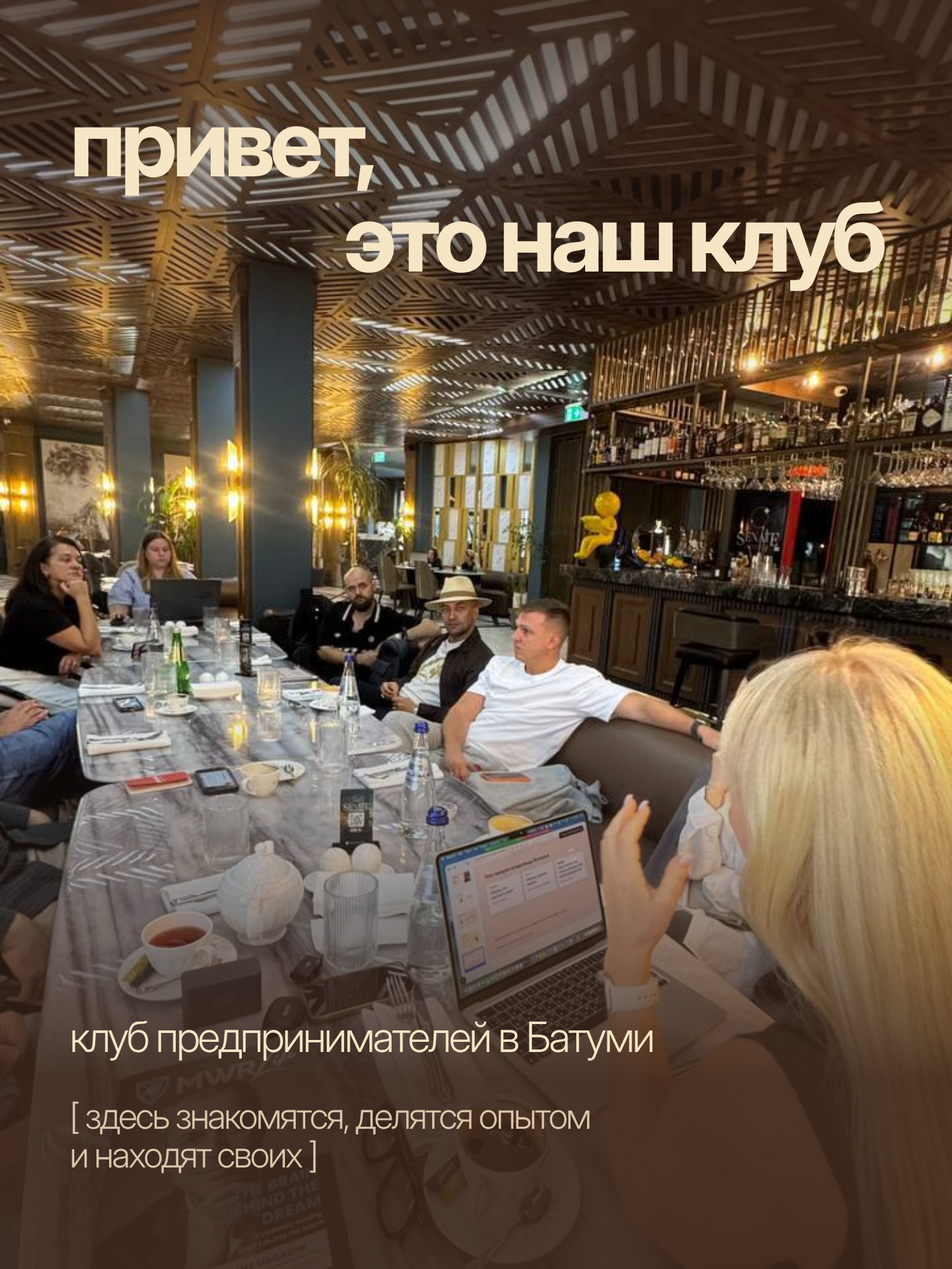
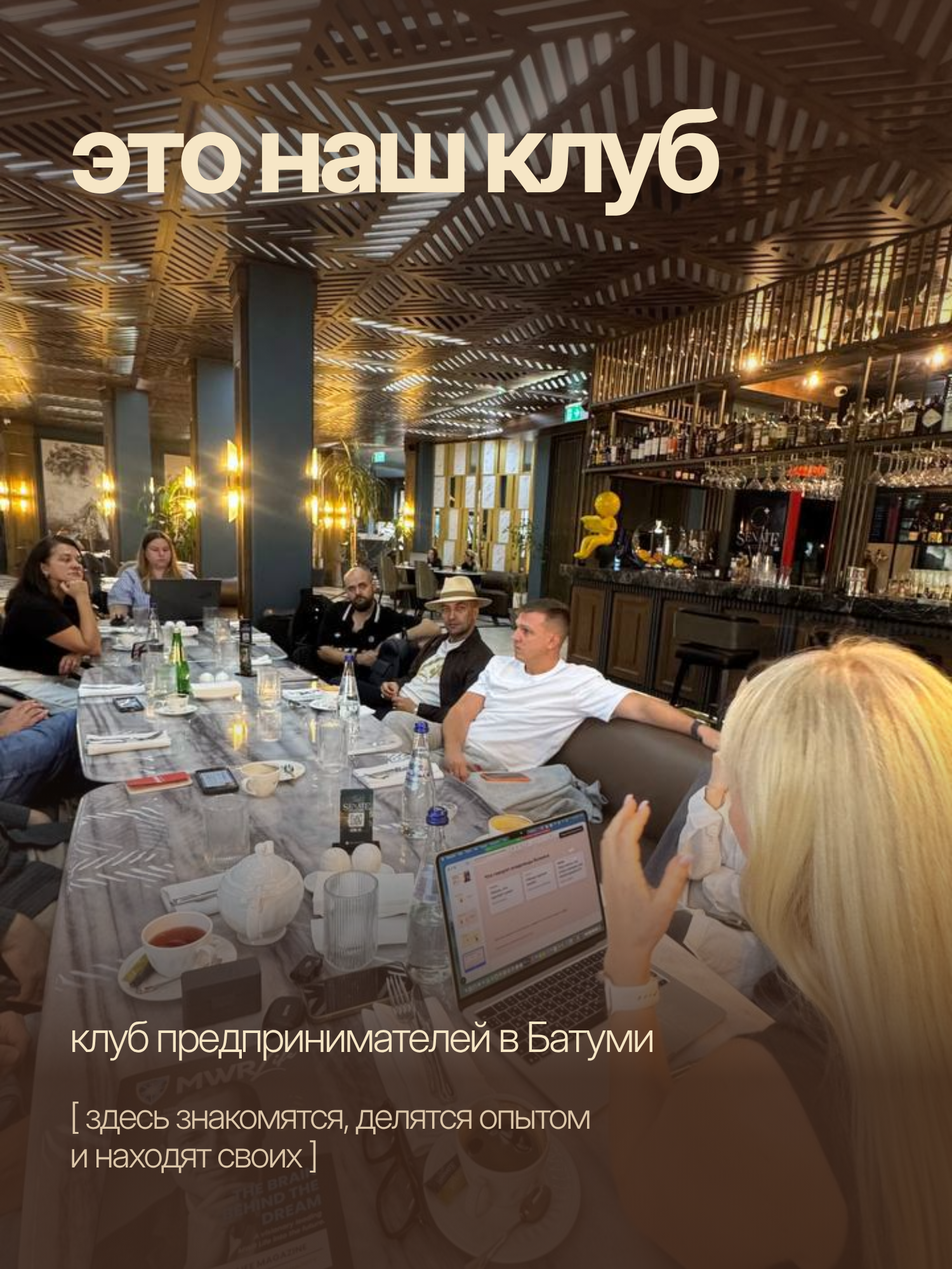
Club carousel: cover headline without greeting
Claude-Session: https://claude.ai/code/session_01EUhV7wSY77qAG1LrFAuACB

Changed region(s): [[0.0613, 0.062, 0.9507, 0.248]]

diff --git a/carousel-club/carousel.html b/carousel-club/carousel.html
@@ -25,8 +25,7 @@
 <section class="slide" id="s1">
   <img class="bg" src="photos/c1.jpg" style="object-position:50% 40%">
   <div class="abs" style="inset:0;background:linear-gradient(180deg,rgba(59,36,24,.8) 0%,rgba(59,36,24,0) 30%,rgba(59,36,24,0) 55%,rgba(59,36,24,.9) 85%)"></div>
-  <div class="abs h" style="left:110px;top:150px;font-size:150px;color:var(--milk)">привет,</div>
-  <div class="abs h" style="right:110px;top:300px;font-size:150px;color:var(--milk)">это наш клуб</div>
+  <div class="abs h" style="left:110px;top:150px;font-size:180px;color:var(--milk)">это наш клуб</div>
   <div class="abs t" style="left:110px;bottom:330px;font-size:66px;color:var(--milk)">клуб предпринимателей в Батуми</div>
   <div class="abs t" style="left:110px;bottom:150px;font-size:56px;color:var(--sand)">[ здесь знакомятся, делятся опытом<br>и находят своих ]</div>
 </section>
